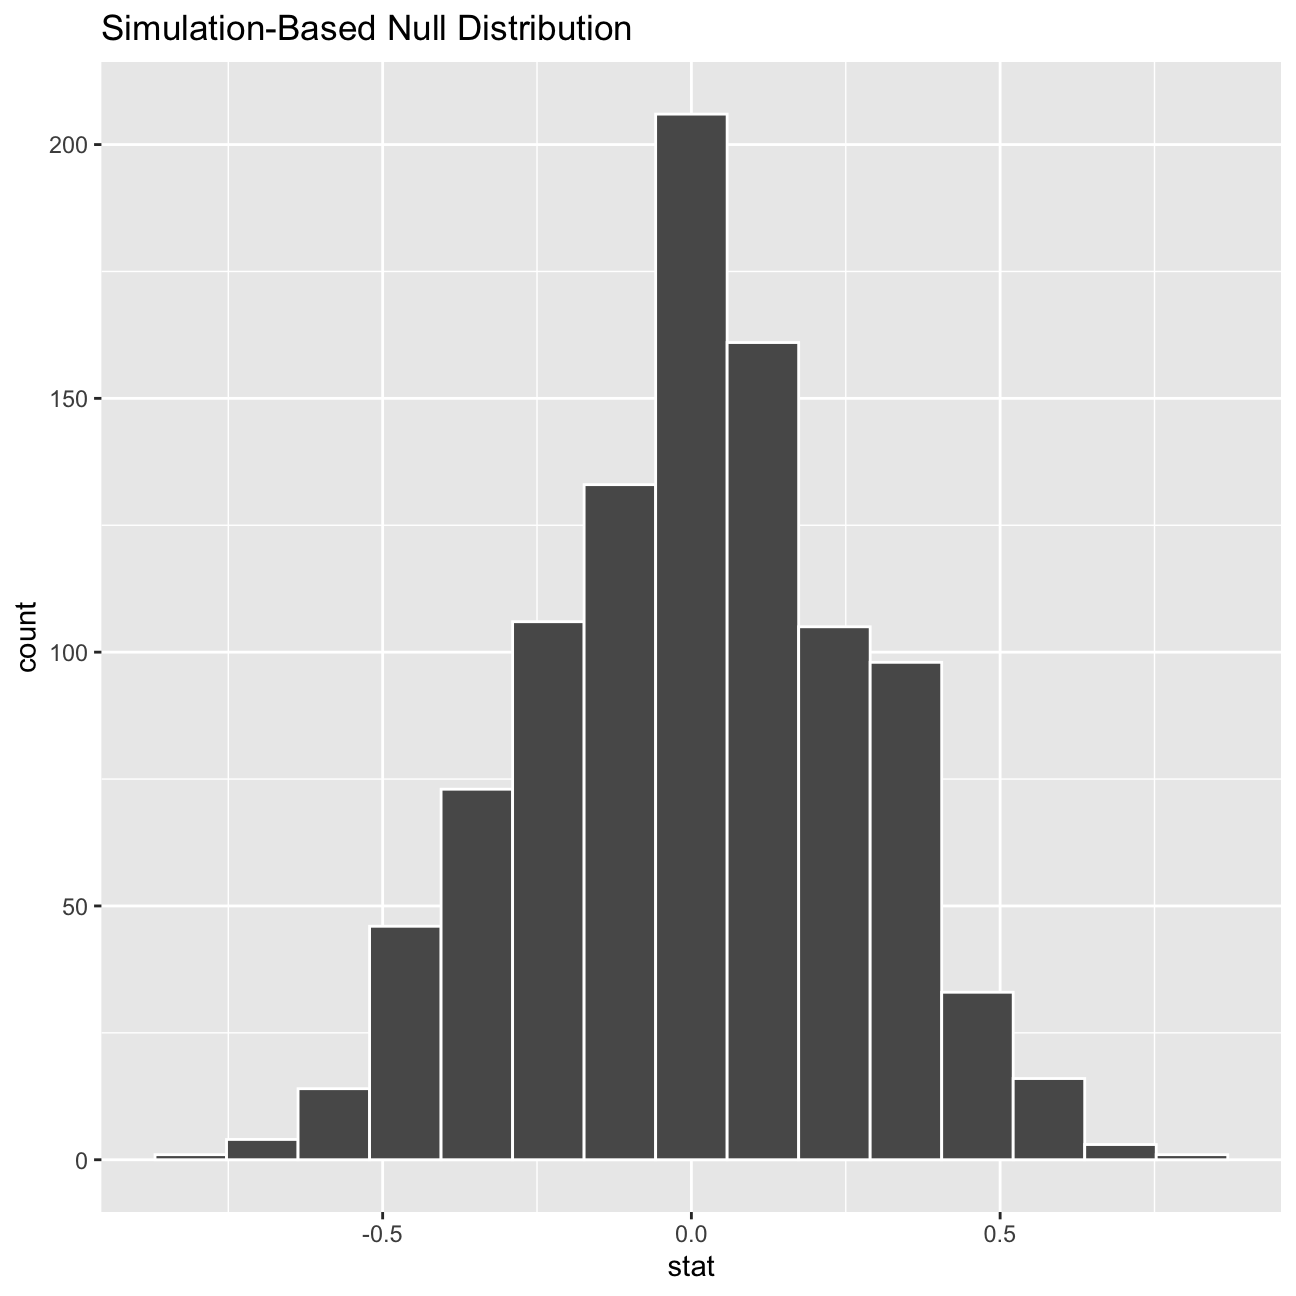
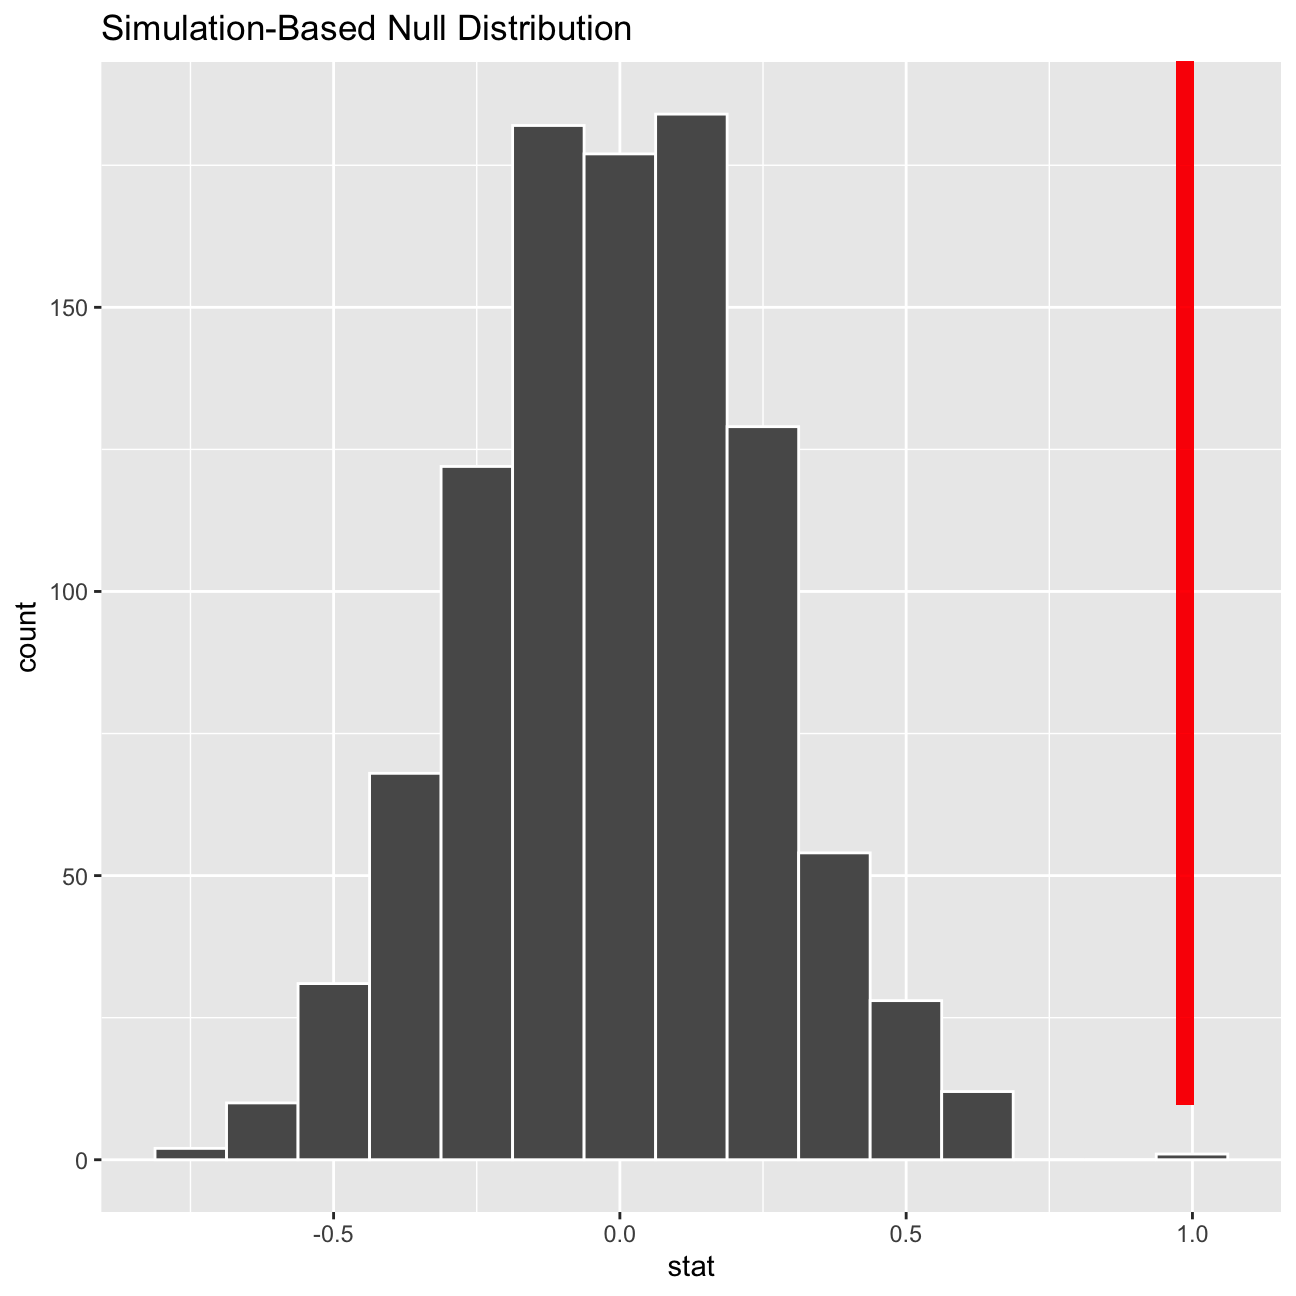
final, final

diff --git a/content/project /blogfinal2.html b/content/project /blogfinal2.html
@@ -1,0 +1,29 @@
+---
+title: "MY BIO"
+author: "Rithika Satish"
+date: '2017-10-31T22:27:21-05:00'
+description: Comparision of movie stats
+image: pic02.jpg
+keywords: ''
+slug: blogfinal2
+draft: no
+---
+
+
+
+<pre class="r"><code>knitr::opts_chunk$set(
+  message = FALSE, 
+  warning = FALSE, 
+  tidy=FALSE,     # display code as typed
+  size=&quot;small&quot;)   # slightly smaller font for code
+options(digits = 3)
+
+# default figure size
+knitr::opts_chunk$set(
+  fig.width=6.75, 
+  fig.height=6.75,
+  fig.align = &quot;center&quot;
+)</code></pre>
+<p>```</p>
+<p>#This is my story</p>
+<p>Hailing from Asia, I am Rithika Satish. While I’m originally from Mumbai, India, I have spent the last four years in Singapore. Growing up I moved between several cities in India, 9 to be precise.In high school I took a keen interest in Mathematics and Social Studies and decided that I wanted to bring these two interests together to study Economics. I pursued Economics at Singapore Management University.While Economics will always be my passion, I have come to love finance too. I wish to create long-term impact on companies and industries by being engaged in advisory services related to Mergers and Acquisitions. My hobbies include tennis and fencing.Im also a foodie at heart and love trying new cuisines out. I recently tried African cuisine for the first time and loved it.</p>

diff --git a/content/project /blogfinal1.html b/content/project /blogfinal1.html
@@ -2,12 +2,11 @@
 title: "IMBD Movies Analysis"
 author: "Rithika Satish"
 date: '2017-10-31T22:27:21-05:00'
-description: Analysing director ratings
+description: Comparision of movie stats
 image: pic02.jpg
 keywords: ''
 slug: blogfinal1
 draft: no
-categories: -"" -""
 ---
 
 
@@ -138,7 +137,7 @@ get_pvalue(obs_stat =(7.57-6.93) , direction = &quot;both&quot;)  </code></pre>
 <pre><code>## # A tibble: 1 x 1
 ##   p_value
 ##     &lt;dbl&gt;
-## 1   0.008</code></pre>
+## 1   0.002</code></pre>
 <pre class="r"><code># The results again indicate that we can reject the null and that there indeed is statistically significant difference between the means
 
 t.test(rating ~ director, data = hypothesis_test)</code></pre>
